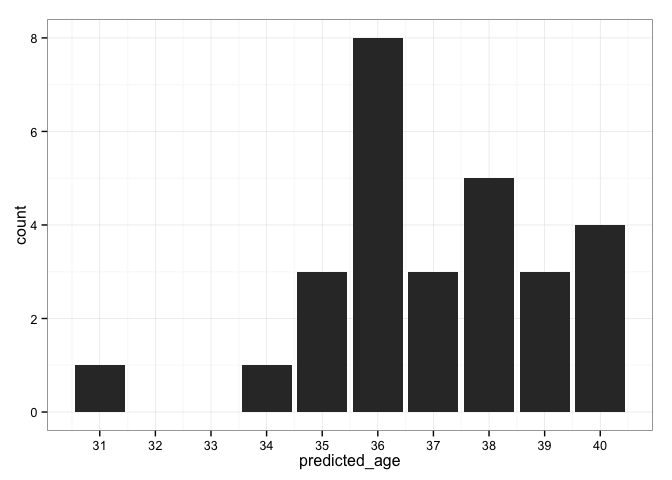
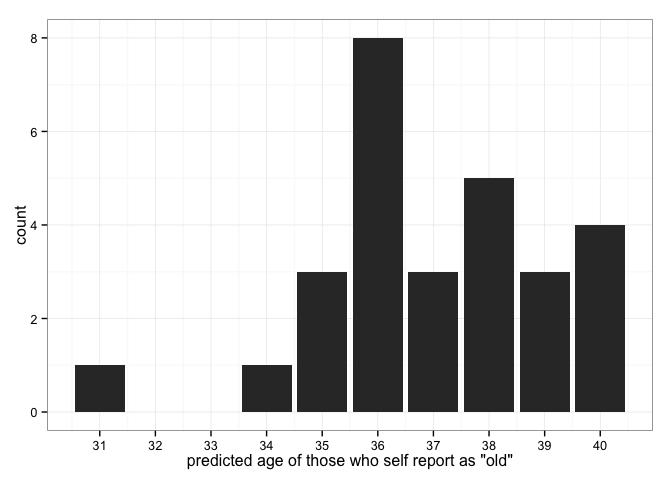
proper axis label

Changed region(s): [[0.2812, 0.9375, 0.7812, 1.0]]

diff --git a/homework/hw07-candy.md b/homework/hw07-candy.md
@@ -1225,6 +1225,7 @@ self_reported_as_old_predictions %>%
   ggplot(aes(x = predicted_age, y = count)) + 
   geom_bar(stat="identity") +
   scale_x_continuous(breaks = seq(30,40,1)) + 
+  xlab('predicted age of those who self report as "old"') + 
   theme_bw()
 ```
 
